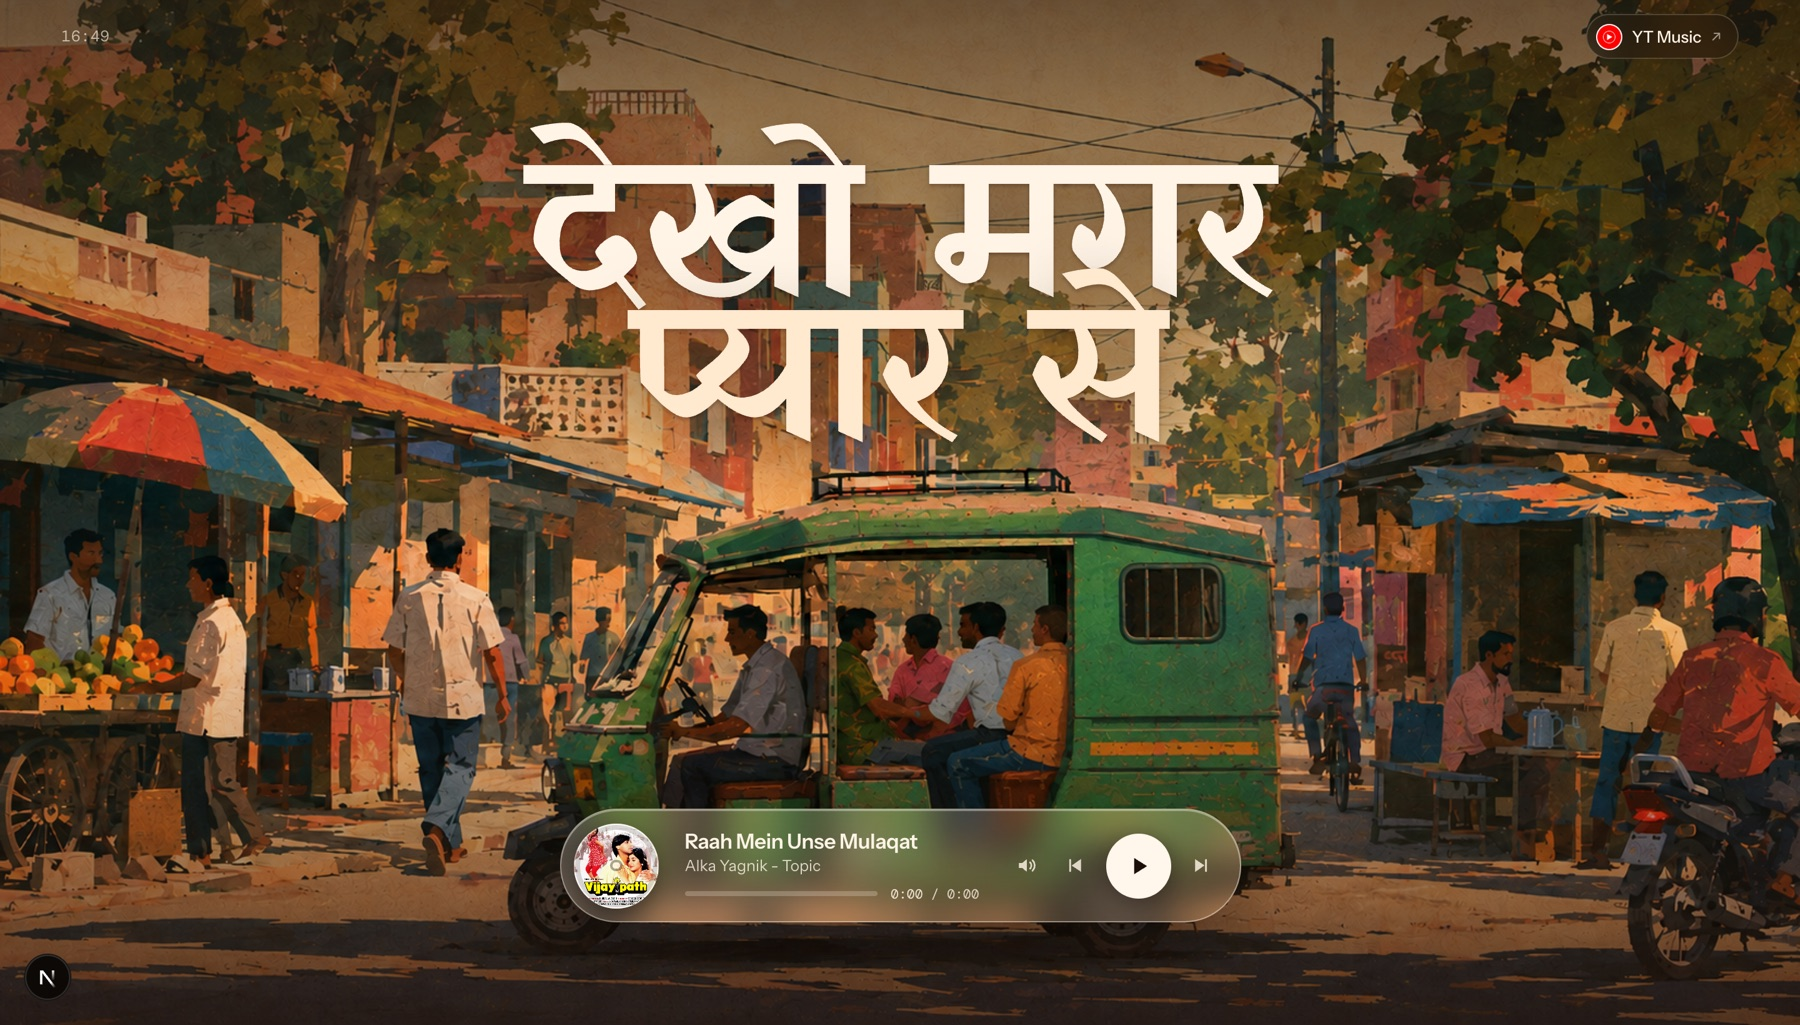
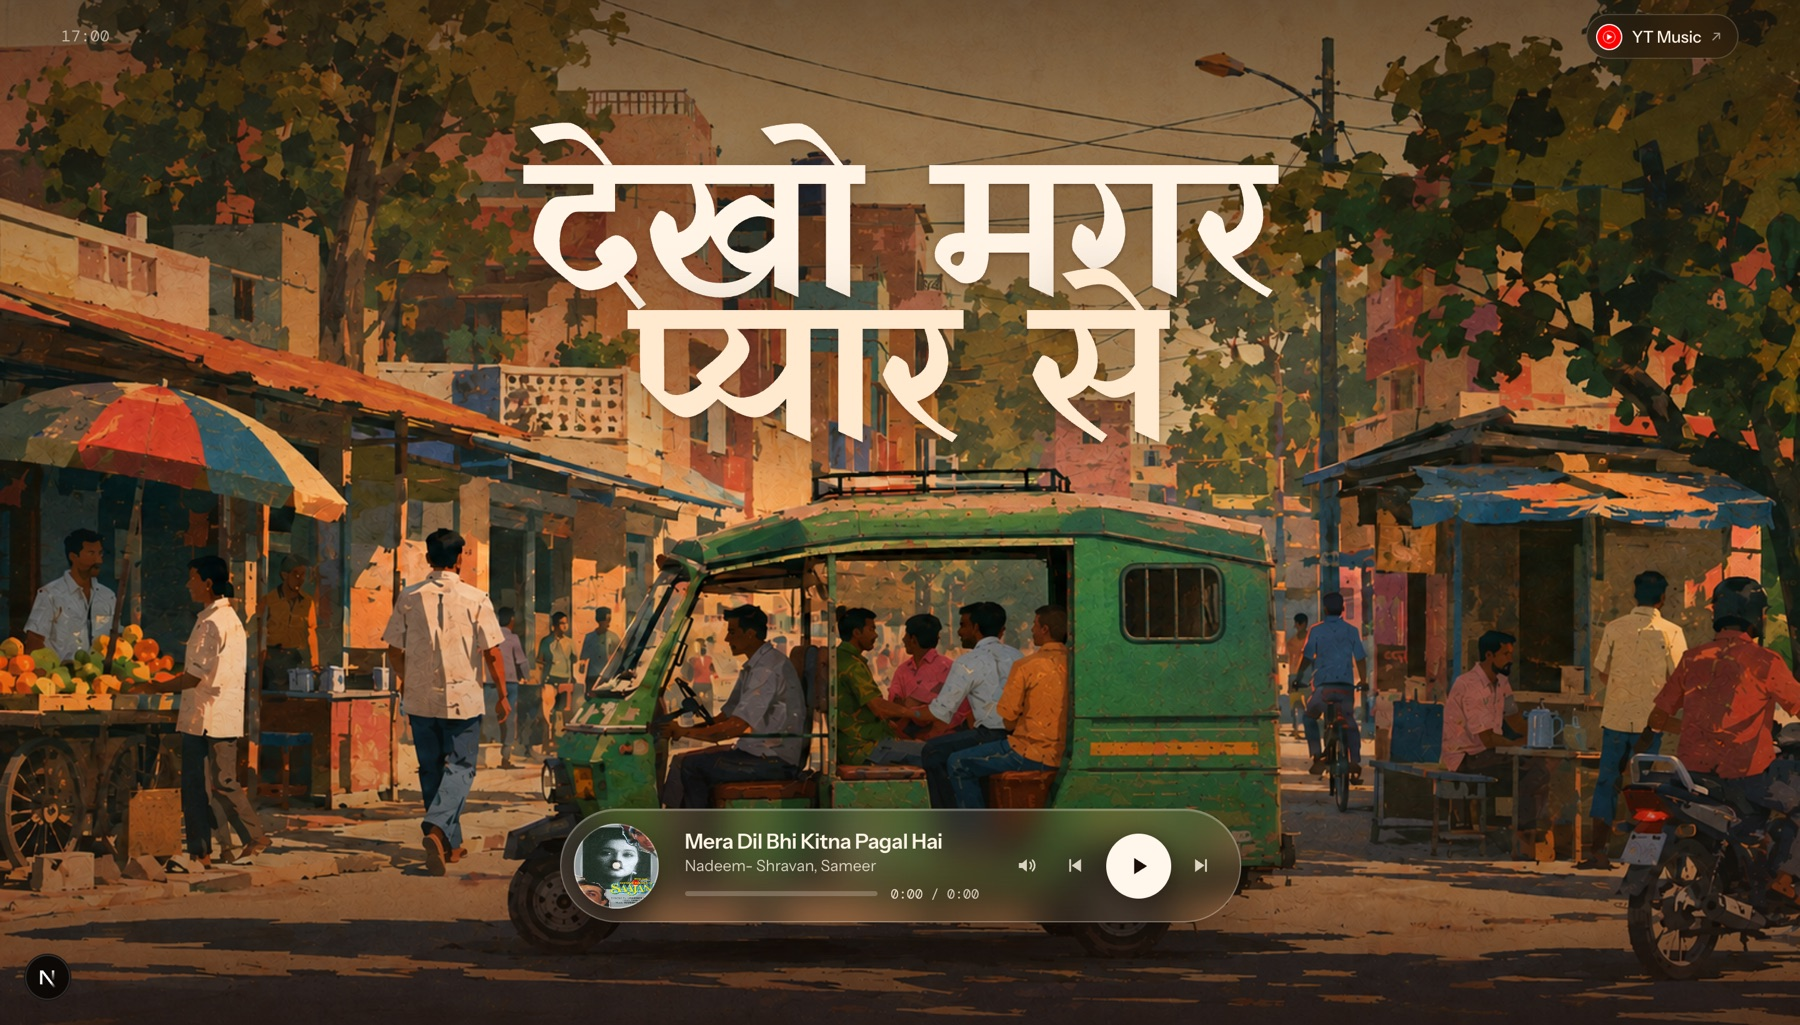
Add Google Analytics, scale the hero properly on phones
The display clamp pinned to its 3.7rem floor below ~700px, so on a 390px screen
the longest line filled only 63% of the measure and the lockup took a tenth of
the viewport. Sizing on 22.5vw fills 93-96% of the measure from 320px up and
still hits the same 9.8rem ceiling by 700px, so desktop is unchanged.

Changed region(s): [[0.3111, 0.7805, 0.7156, 0.9054]]

diff --git a/app/layout.tsx b/app/layout.tsx
@@ -1,6 +1,9 @@
 import type { Metadata } from "next";
 import { DM_Mono, Instrument_Sans, Yatra_One } from "next/font/google";
+import Script from "next/script";
 import "./globals.css";
+
+const analyticsId = "G-SFECSDFTW0";
 
 const display = Yatra_One({ weight: "400", subsets: ["devanagari", "latin"], variable: "--font-display", display: "swap" });
 const sans = Instrument_Sans({ subsets: ["latin"], variable: "--font-sans", display: "swap" });
@@ -21,7 +24,16 @@ export const metadata: Metadata = {
 export default function RootLayout({ children }: Readonly<{ children: React.ReactNode }>) {
   return (
     <html lang="en" className={`${display.variable} ${sans.variable} ${mono.variable}`}>
-      <body>{children}</body>
+      <body>
+        {children}
+        <Script src={`https://www.googletagmanager.com/gtag/js?id=${analyticsId}`} strategy="afterInteractive" />
+        <Script id="google-analytics" strategy="afterInteractive">{`
+          window.dataLayer = window.dataLayer || [];
+          function gtag(){dataLayer.push(arguments);}
+          gtag('js', new Date());
+          gtag('config', '${analyticsId}');
+        `}</Script>
+      </body>
     </html>
   );
 }

diff --git a/app/globals.css b/app/globals.css
@@ -83,7 +83,9 @@ button { cursor: pointer; }
   margin: 0;
   font-family: var(--font-display), serif;
   font-weight: 400;
-  font-size: clamp(3.7rem, 11.6vw, 9.8rem);
+  /* 22.5vw keeps the longest line filling most of the measure on a phone, and hits
+     the 9.8rem ceiling around 700px so desktop is unchanged. */
+  font-size: clamp(4.4rem, 22.5vw, 9.8rem);
   /* .74 is the tightest setting where the two lines interlock without their ink
      actually touching — below this the े matra of line two clips into line one. */
   line-height: .74;
